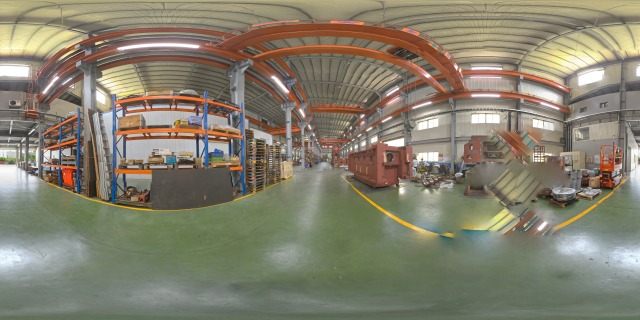
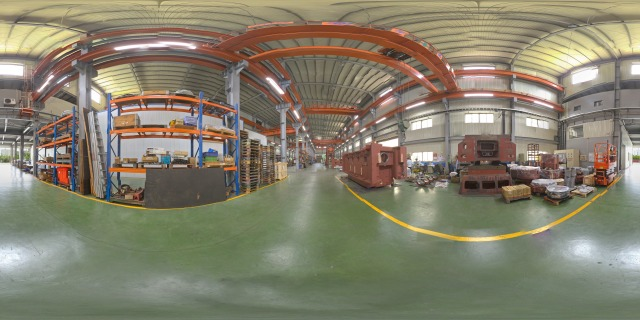
修正各站接縫細節（黃線斷差、牆面錯層、電纜架斷開、門板殘影）並更新背景 (v193)

diff --git a/index.html b/index.html
@@ -11,7 +11,7 @@
   <link href="https://fonts.googleapis.com/css2?family=Noto+Sans+TC:wght@400;500;600;700&family=Noto+Serif+TC:wght@600;700&display=swap" rel="stylesheet">
   <link rel="stylesheet" href="https://cdn.jsdelivr.net/npm/@photo-sphere-viewer/core@5.14.1/index.css">
   <link rel="stylesheet" href="https://cdn.jsdelivr.net/npm/@photo-sphere-viewer/markers-plugin@5.14.1/index.css">
-  <link rel="stylesheet" href="./css/tour.css?v=149">
+  <link rel="stylesheet" href="./css/tour.css?v=193">
   <script type="importmap">
   {
     "imports": {
@@ -180,6 +180,6 @@
     </div>
   </div>
 
-  <script type="module" src="./js/tour.js?v=149"></script>
+  <script type="module" src="./js/tour.js?v=193"></script>
 </body>
 </html>

diff --git a/js/tour.js b/js/tour.js
@@ -15,7 +15,7 @@ try {
   guideApi = null;
 }
 
-const MEDIA_VERSION = '149';
+const MEDIA_VERSION = '193';
 const STATIONS_URL = `./media/stations.json?v=${MEDIA_VERSION}`;
 const DEFAULT_ZOOM = 42;
 const THUMBS_COLLAPSE_KEY = 'f360-thumbs-collapsed';

diff --git a/.cursor/skills/gaojiang-ptgui-enhance/SKILL.md b/.cursor/skills/gaojiang-ptgui-enhance/SKILL.md
@@ -96,7 +96,43 @@ Task Progress:
 - tile：邊長 ≥10000→400、≥5000→300，否則 200；OOM 依序降到 300/200/128
 - `half=True`, `gpu_id=0`；套件與 `machine-ai-upscale/requirements.txt` 相同
 
-套用背景時 `finish_gj(..., enhance=False)`；僅在來源約 2:1 時 `fill_full=True`。正方形或大面積全黑成品視為失敗，改用走道站 `.pts` 當 `-template` 重拼。
+套用背景時 `finish_gj(..., enhance=False, fill_full=True, nadir=False, zenith=False)`。
+
+**標準版不會在 CLI 產生控制點。** `-createproject` 只建檔，`-stitchnogui` / `-batch` 只縫圖。必須開 PTGui 視窗選「專案 → 對齊影像」（Shift+F5），等到「請稍候」結束再存檔輸出。
+
+**禁止**把其他展站的 `.pts` 當 `-template`（會複製錯誤相機方位，造成重影／斷樑）。只可用 `scripts/make_equirect_template.py` 產出的鏡頭+360 樣板（`imageparams=false`）。
+
+單站正確重拼：
+
+```powershell
+python -X utf8 -u scripts/restitch_one_ptgui.py station-1f-qc
+```
+
+## 拼好後的三種缺陷與修法（2026-08 實戰）
+
+成品出現「一團灰霧／模糊遮罩」或「整組錯亂」時，依序診斷：
+
+1. **孤兒照片**（對齊後 0 控制點，被亂放進畫面）：
+   `python -X utf8 -u scripts/exclude_orphans.py <sid> ...` — 解析 .pts 控制點數，移除孤兒、重出、套用。
+2. **手震模糊照片**（清晰度低於全站中位數一半，被縫進成品變成霧塊）：
+   `python -X utf8 -u scripts/exclude_blurry.py [--ratio=0.5] <sid> ...` — Laplacian 清晰度過濾，僅在該方位另有清晰照片時剔除。
+3. **錯位群組**（一群照片互相連結但整組貼錯方向，如天花板特寫被優化到水平）：
+   - 先試 `python -X utf8 -u scripts/reinforce_ptgui_gui.py <pts>`（GUI 自動化：控制點 → 為所有重疊影像產生控制點 → F5 優化 → 存檔），品管室靠這招修好。
+   - 若優化仍收斂到錯位（庫存區案例）：做 contact sheet 對照每張照片的內容與優化後 yaw/pitch，把「內容是天花板/地板特寫、pitch 卻接近 0」的照片用 `exclude_blurry.remove_groups` 移除後重出。
+
+4. **重複紋理牆／近距離視差**（浪板牆、電梯門這種平面近拍，全域優化拉不回，牆面窗框交錯）：
+   - 優先找 `C:\ptgui_test\jobs\_good_pts_backup\` 的試用版時代人工整理專案當幾何基底，剔除其中的孤兒與錯位群組後重出（走道案例：備份幾何正確，只要移除 10 張被優化到水平的地板特寫＋2 張孤兒）。
+   - 平面近拍鬼影（二樓電梯門、橘柱殘影）：把跨越該平面上下的近拍照片移除做變體比較（`station-2f_varA/varB.pts`），接縫層數變少鬼影即消失；先出變體確認無破洞再套用。
+
+輔助知識：
+- .pts 控制點格式 `{"t":0,"0":[群組idx,張idx,x,y],"1":[...]}`；移除 imagegroups 必須重映射控制點索引與 anchorimagegroup。
+- **錯位群組的控制點數可能很高**（整組互聯成孤島後一起漂走），不能只看 cp=0；一定要 contact sheet 對照內容與 yaw/pitch。孤兒的典型特徵是多張停在同一個預設座標（如 y-57.5 p-2.1）。
+- 試用版存的 `.pts` 開頭是 `# PTGui Trial Project File`（加密格式，不能直接 JSON 編輯）；用 `scripts/convert_pts_gui.py`（GUI 開啟 → Ctrl+S）轉成授權版 JSON 後即可程式化編輯。
+- 樣板 blend `fillholes=True` 會把沒覆蓋的區域抹成灰霧；缺陷大多不是破洞而是上述照片問題。
+- PTGui 優化結果視窗是 `#32770` 對話框（只有「關閉」鈕），pywinauto 要用 win32 列舉找 modal，UIAWrapper 沒有 `child_window`。
+- 選單「專案 → 優化」有時點了沒觸發（PTGui CPU 不動、無進度視窗）；補救：對主視窗重新 set_focus 後再送一次 `{F5}`（`scripts/optimize_ptgui_gui.py` 已內建 fallback）。
+- 大圖輸出後 PTGui 可能還鎖檔（WinError 1224），複製要重試。
+- 只重出＋套用單站（不重新對齊）：`python -X utf8 -u scripts/stitch_apply_one.py <sid>`。
 
 ## 路徑
 
